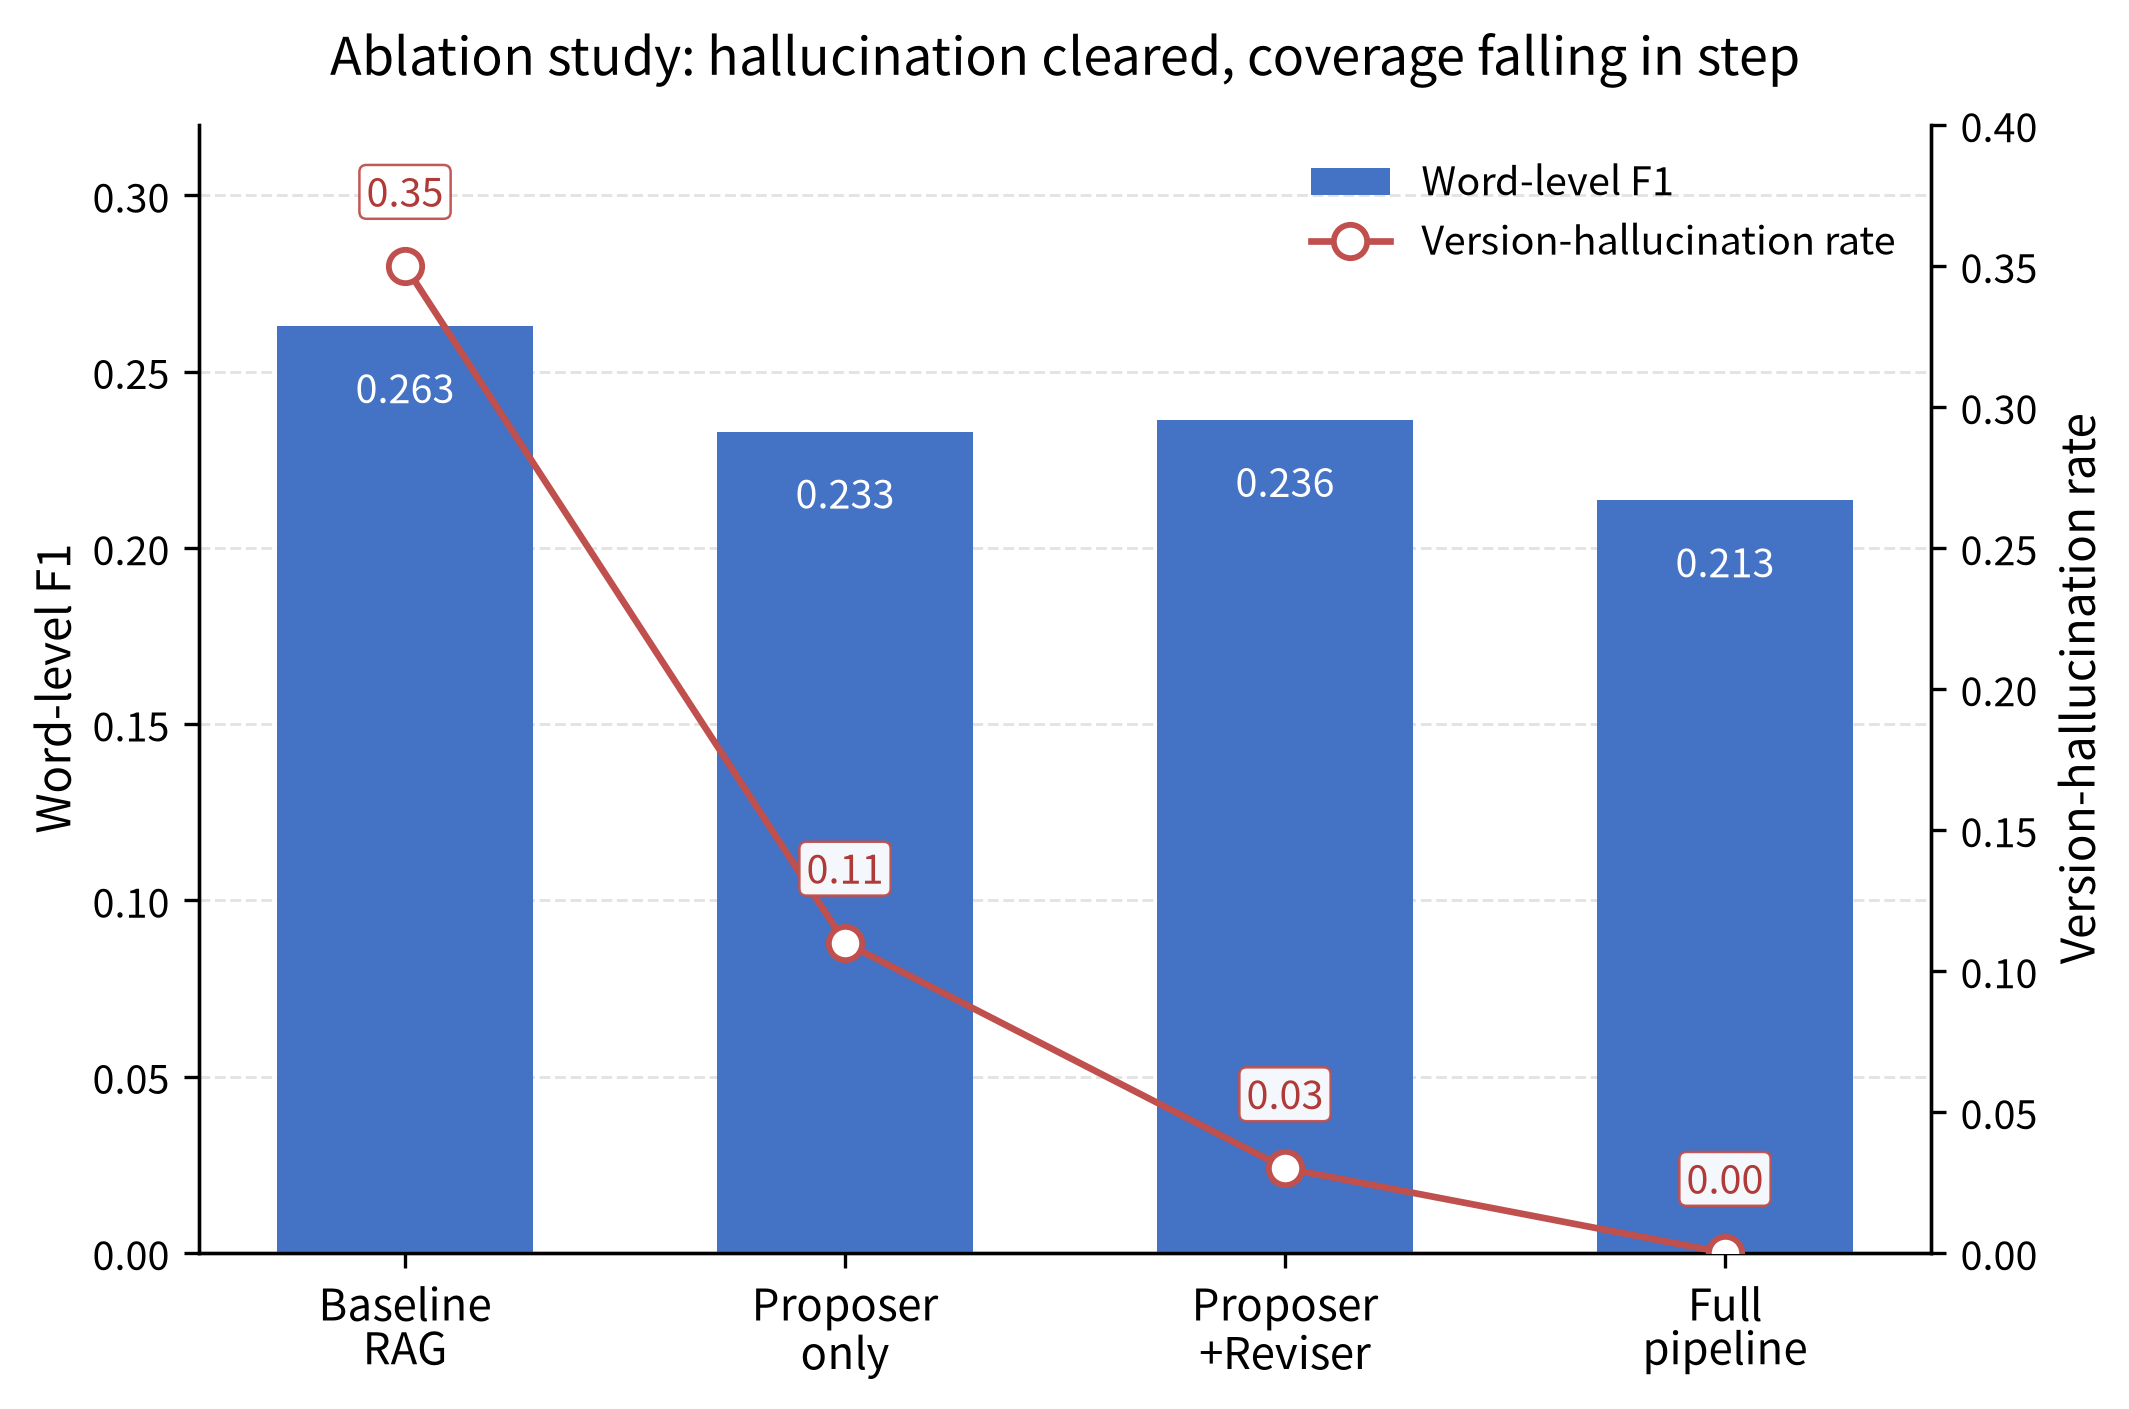
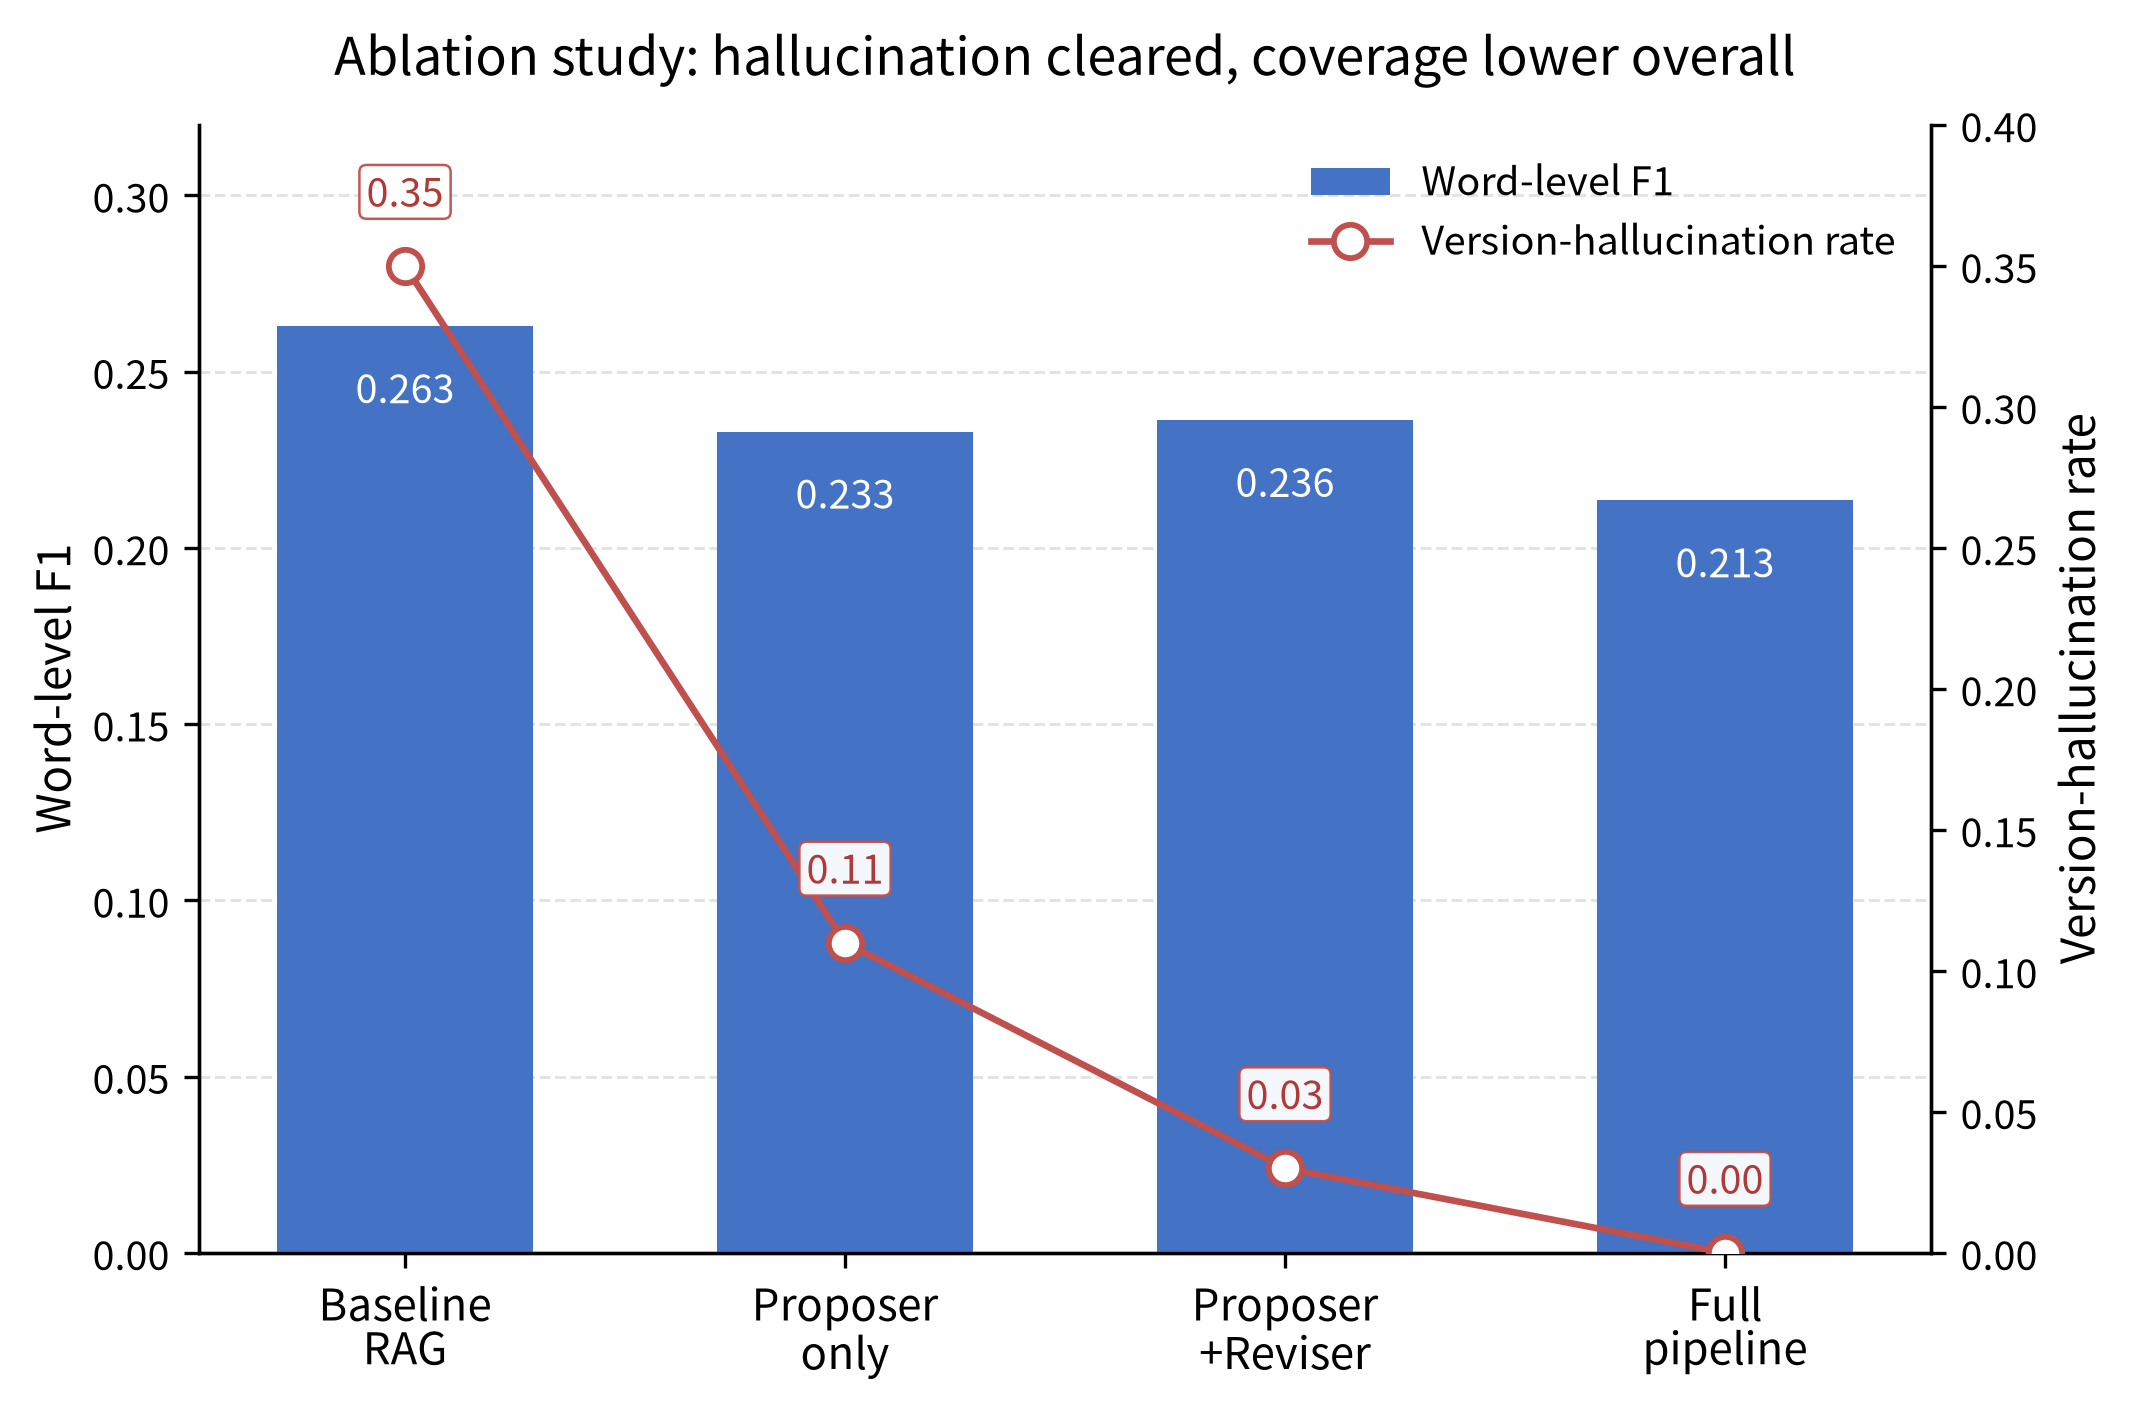
Add files via upload

Changed region(s): [[0.155, 0.0312, 0.868, 0.0625]]

diff --git a/src/plot_ablation.py b/src/plot_ablation.py
@@ -59,7 +59,7 @@ ax.set_xticks(x)
 ax.set_xticklabels(configs, fontsize=10.5)
 ax.tick_params(axis="y", labelsize=9.5)
 ax2.tick_params(axis="y", labelsize=9.5)
-ax.set_title("Ablation study: hallucination cleared, coverage falling in step", fontsize=12.5, pad=12)
+ax.set_title("Ablation study: hallucination cleared, coverage lower overall", fontsize=12.5, pad=12)
 ax.legend([bars, line], ["Word-level F1", "Version-hallucination rate"], loc="upper right",
           fontsize=9.5, frameon=False)
 

diff --git a/docs/FS_ER_statistics_zh.md b/docs/FS_ER_statistics_zh.md
@@ -25,7 +25,7 @@
 
 - 单轮RAG 的 5 条 FS=0 样本与 5 条 VC=0 样本**完全重合**（样本 9、274、411、421、424）。
   即：事实支撑的缺口 100% 来自“版本号无据”，不涉及参数、兼容关系等其他无据表述。
-- 流水线在这 5 条上一律改为明确回避（`None — no version`），FS 随之为 1；VC 三档分布由 0/10/5（幻觉/回避/正确）变为 0/15/5。
+- 流水线在这 5 条上改为明确回避、措辞各异（无一条固定写 `None — no version`），FS 随之为 1；VC 三档分布由 5/10/5（幻觉/回避/正确）变为 0/15/5。
 - 可执行性反向：流水线 13 条 ER=0 中，仅 1 条（样本 9）同时给对了版本（VC=2）却步骤不可执行，其余 12 条是“版本改为回避 + 步骤被压缩”共同导致。
 - 单轮RAG 唯一 1 条 ER=0 为样本 52（Spark 3.1 并发冲突，只给结论未给可执行配置项），与表5 的典型样本一致。
 
@@ -39,7 +39,7 @@
 
 FS↑ 与 ER↓ 出自同一机制：流水线靠“少说”换取可靠性。
 
-- 收益端：删掉无据版本（VC 0→0）、正确回避由 10 条增至 15 条、FS 达 1.00；
+- 收益端：无据版本幻觉由 5 条降至 0 条、正确回避由 10 条增至 15 条、FS 达 1.00；
 - 代价端：答案由 121 词压到 49 词，具体命令与操作步骤丢失，ER 由 0.95 降到 0.35。
 
 这与 5.1 的词级 F1 −4.9pp、拒答率 16% 同源，构成“可靠性↑、可用性↓”的第三重证据。

diff --git a/docs/results_summary_zh.md b/docs/results_summary_zh.md
@@ -28,7 +28,7 @@
 
 ## 3. 幻觉率下降的机制
 
-在 30 条涉及版本的样本上（问题、证据片段或标准答案任一出现版本号；其中仅证据片段含版本号的为 10 条、证据∪答案含版本号的为 15 条）：
+在 30 条涉及版本的样本上（问题、证据片段或标准答案任一出现版本号；其中仅证据含版本、标准答案不含的为 4 条、证据∪答案含版本号的为 15 条）：
 
 - 裸模型：28/30 提及版本，其中仅 1 条与证据一致（召回 0.03）；
 - 单轮 RAG：28/30 提及，其中 10 条与证据一致（召回 0.33＝10/30）；
@@ -50,7 +50,7 @@
 
 ## 5. 结论（论文可用）
 
-1. 检索是主要收益来源：幻觉率 0.69→0.35（−34 个百分点）、F1 +12.8 个百分点，均在 p<10⁻⁷ 水平显著；
+1. 给定证据（oracle context）是主要收益来源：幻觉率 0.69→0.35（−34 个百分点）、F1 +12.8 个百分点，均在 p<10⁻⁷ 水平显著；
 2. 校验链在检索之上进一步把版本幻觉压到 0（p≈5.8×10⁻¹¹），但以答案覆盖下降 4.9 个百分点、拒答率升至 16% 为代价，属“以覆盖换可靠性”的保守化权衡；
 3. 相对裸模型，完整流水线整体仍显著更优（F1 +7.9 个百分点，p≈1.5×10⁻⁹；幻觉 0.69→0.00），但其相对单轮 RAG 为负增量；
 4. 严格字符串匹配不适用于本数据集，主指标应采用词级 F1 / ROUGE-L，或人工评分；
